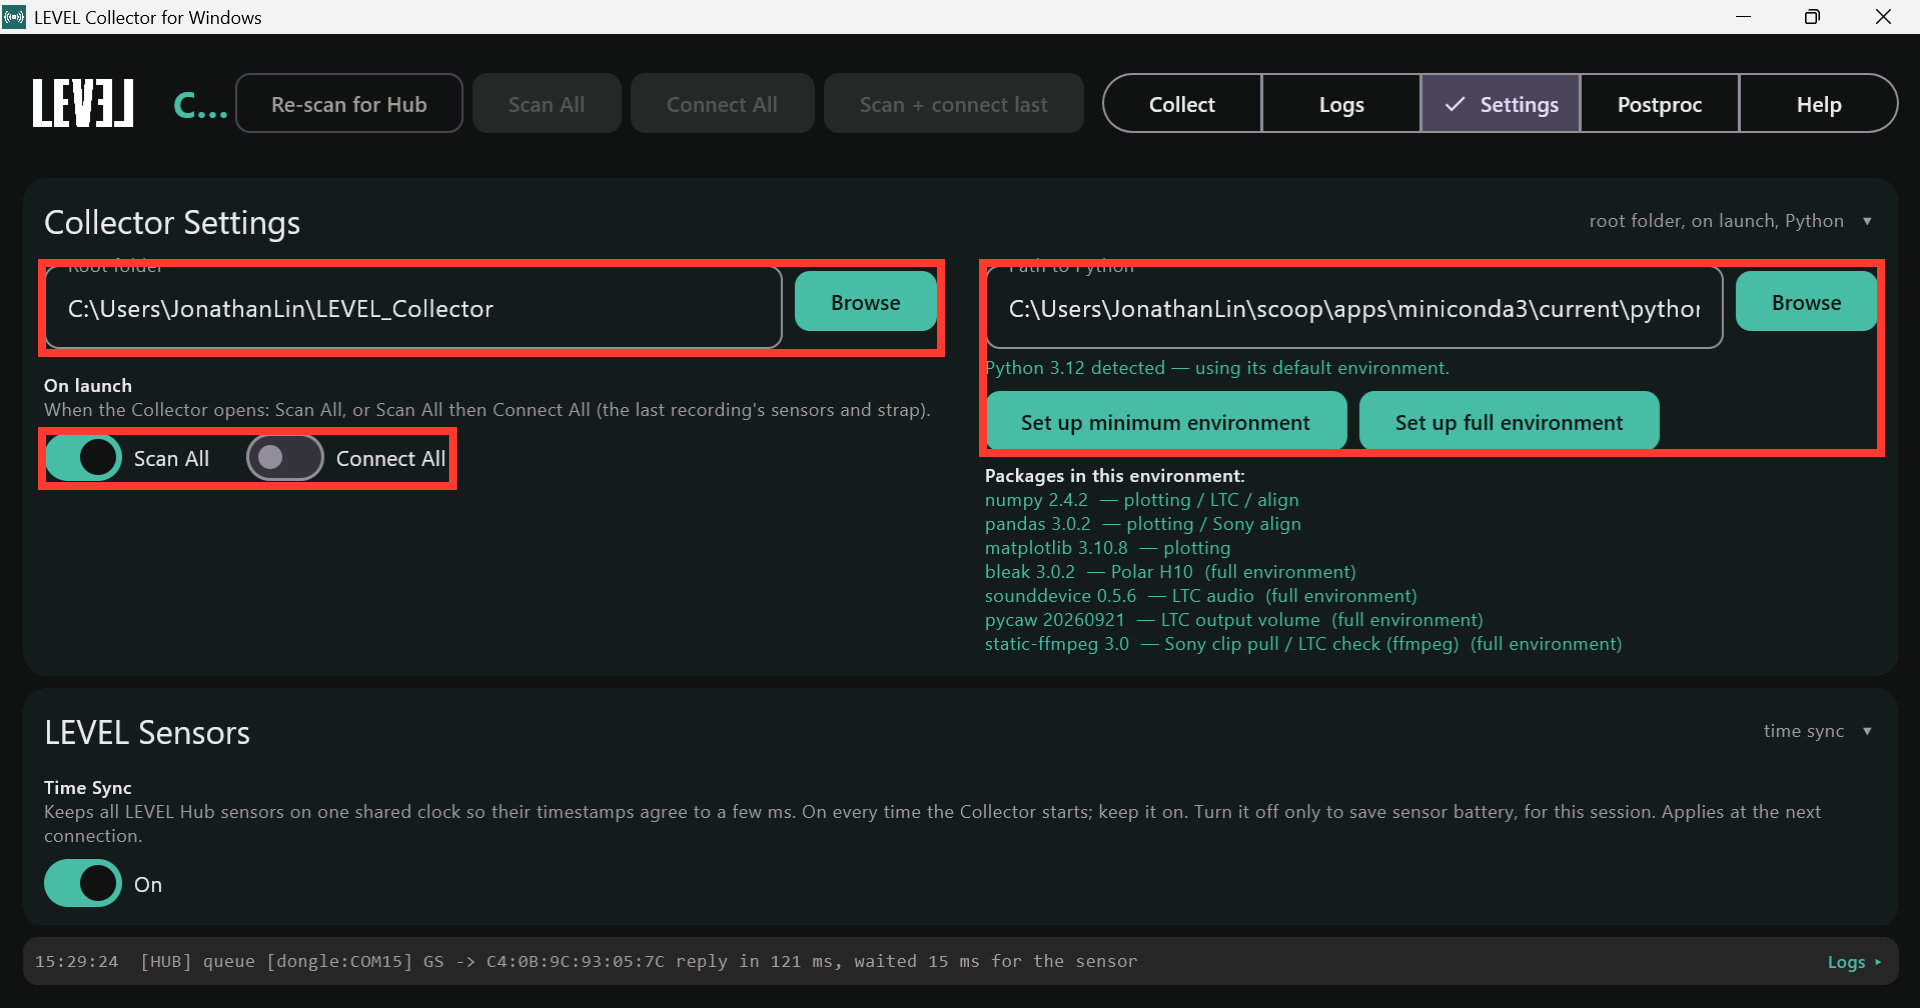
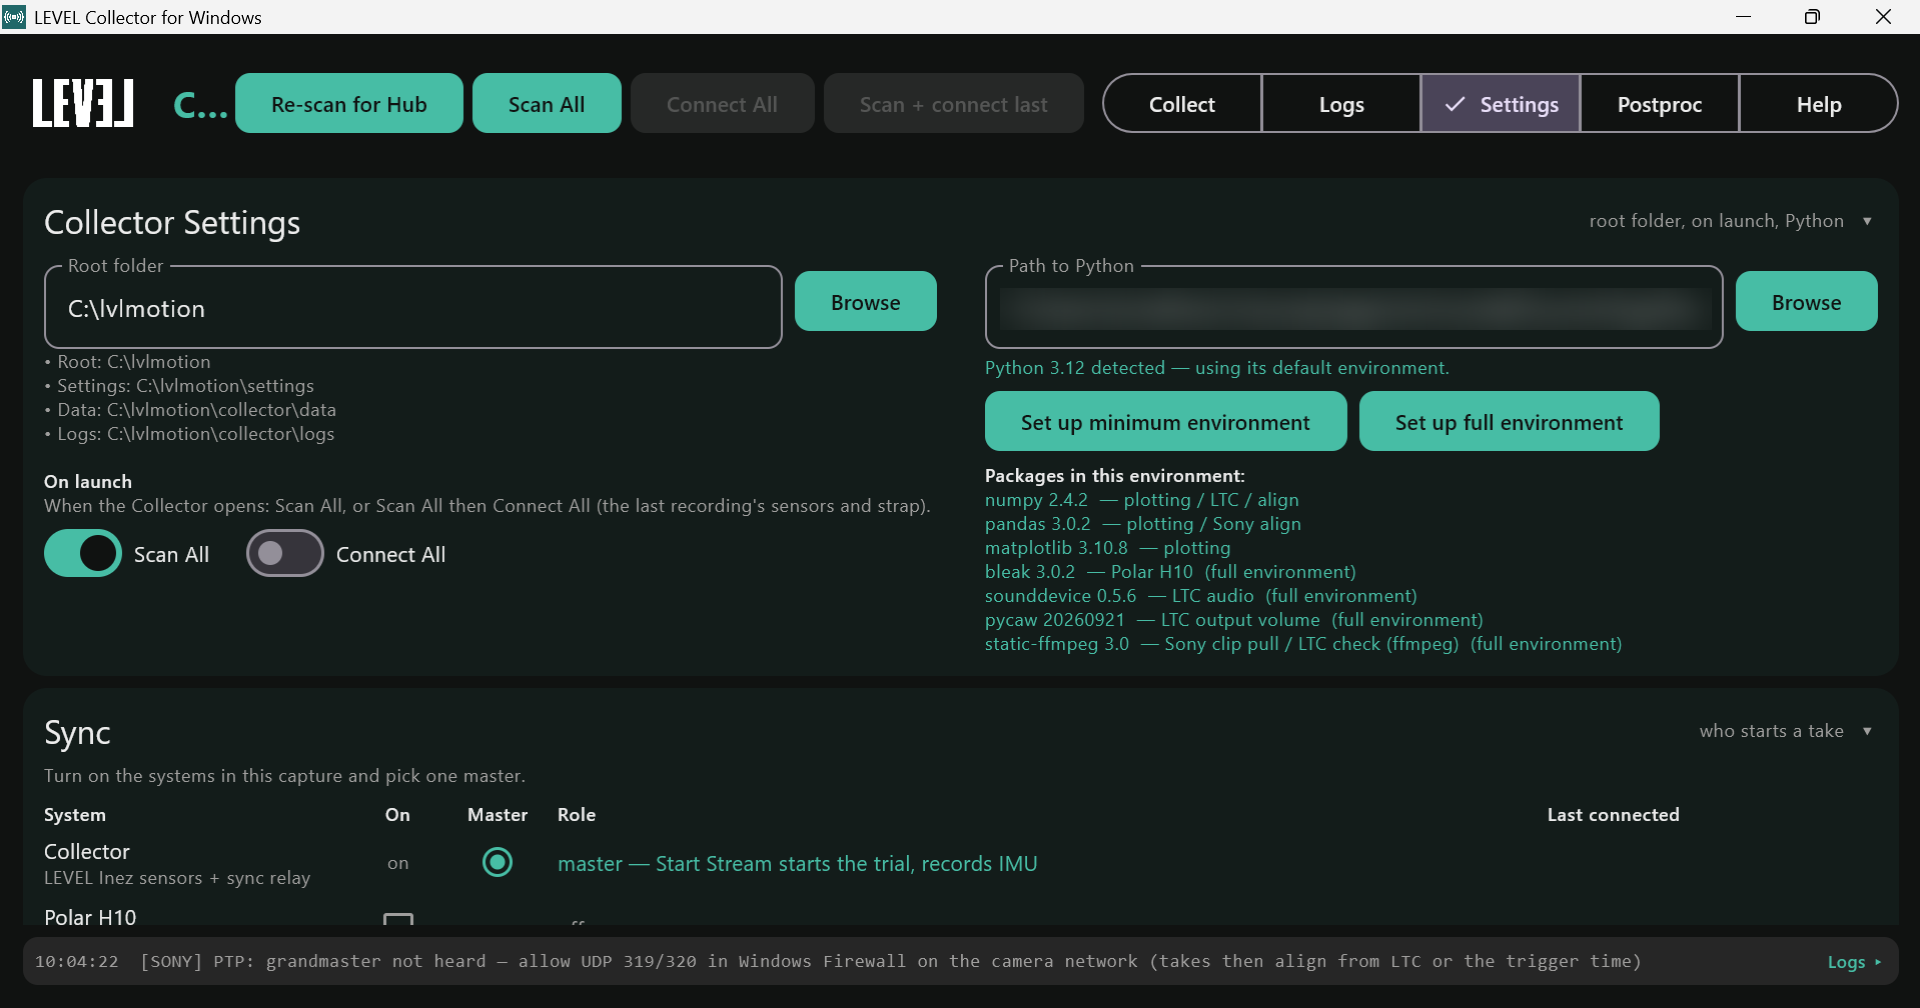
Settings: root folder is the folder you pick, with the Root / Settings / Data / Logs list (new screenshot); Installing: drop old-version update notes; screenshot notes numbered #1-#9
Claude-Session: https://claude.ai/code/session_015KJCcdhEfppe6DCue5hXZZ

diff --git a/docs/windows-settings.md b/docs/windows-settings.md
@@ -12,19 +12,27 @@ fold it away: **Collector Settings**, **Sync**, then one
 panel for each other system that is on.
 
 ![Settings tab: Collector Settings with the root folder, On launch switches and the Python interpreter](assets/windows-settings/collector-settings.png)
-<p style="color:#FF3B30;font-size:1.3em"><strong>RETAKE SCREENSHOT: root folder `C:\lvlmotion` with the Recordings go to / settings stay in line; no LEVEL Sensors / Time Sync panel; no personal user paths</strong></p>
 
 ## Collector Settings
 
 ### Root folder
 
-Where new recordings go. The Collector keeps its data in the root folder's
-`collector` folder: each take in `collector\data`, and beside it `logs`,
-`aligned` (post-processed takes), `calibration`, `sony` (pulled clips),
-`support` and `images`. The default root folder is `C:\lvlmotion`, so takes
-land in `C:\lvlmotion\collector\data\`. Type a path and press Enter, or
-**Browse**. A folder not named `lvlmotion` gets one inside it: picking `D:\`
-gives `D:\lvlmotion`. The line under the box shows where recordings now go.
+Where new recordings go. The default root folder is `C:\lvlmotion`. To use
+another one, type its path and press Enter (a folder that does not exist yet
+is created), or **Browse** to it. The folder you pick is the root folder, as
+is: pick `D:\lvlmotion`, not `D:\`, if you want a `lvlmotion` folder.
+
+The list under the box shows where everything is:
+
+- **Root**: the root folder (`C:\lvlmotion` by default).
+- **Settings**: always `C:\lvlmotion\settings`, whatever the root folder.
+- **Data**: the takes, in the root folder's `collector\data`
+  (`C:\lvlmotion\collector\data` by default).
+- **Logs**: the app logs, in `collector\logs`.
+
+Beside `data` and `logs`, the `collector` folder also holds `aligned`
+(post-processed takes), `calibration`, `sony` (pulled clips), `support` and
+`images`.
 
 A new root folder applies at once, to new takes only: existing recordings stay
 where they are and are not moved. It cannot be changed while a take is
@@ -71,7 +79,7 @@ Collector.
 ## Sync
 
 ![Sync table with Polar H10, Sony and Vicon on and the Collector as master](assets/windows-settings/sync-table.png)
-<p style="color:#FF3B30;font-size:1.3em"><strong>RETAKE SCREENSHOT: crop out the removed LEVEL Sensors / Time Sync panel above the table</strong></p>
+<p style="color:#FF3B30;font-size:1.3em"><strong>RETAKE SCREENSHOT #3: crop out the removed LEVEL Sensors / Time Sync panel above the table</strong></p>
 
 One take, several systems, one clock: the sync table says which systems are in
 the capture and which one starts a take (the **master**). The Collector relays
@@ -108,7 +116,7 @@ describe each one:
   [Sony Cameras and Theia](windows-sony-theia).
 
   ![Sony panel in Settings: control box address, Sony video folder and the auto-get-key option on the left; LTC output, gain and Calibrate LTC on the right](assets/windows-settings/sony-panel.png)
-  <p style="color:#FF3B30;font-size:1.3em"><strong>RETAKE SCREENSHOT: Sony panel with the LTC gain at the new 0.015 default (0.1.41+)</strong></p>
+  <p style="color:#FF3B30;font-size:1.3em"><strong>RETAKE SCREENSHOT #4: Sony panel with the LTC gain at the new 0.015 default (0.1.41+)</strong></p>
 - **Vicon**: on the left, **Auto-arm by default** (only when Vicon is master),
   the DataStream SDK path and the Nexus session folder (normally left blank);
   on the right, the UDP port and, when the Collector is master, the Nexus host

diff --git a/docs/windows-sony-theia.md b/docs/windows-sony-theia.md
@@ -165,7 +165,7 @@ What this page adds to that setup, once per rig:
    clip also measures K_av and saves it.
 
 ![Sony panel on the Collect tab: Play LTC signal on, two cameras listed with camera 001 picked as the LTC camera, and the PTP line reading grandmaster heard](assets/windows-sony-theia/sony-panel-ltc-picked.png)
-<p style="color:#FF3B30;font-size:1.3em"><strong>RETAKE SCREENSHOT: current Sony panel with Init rig and Pull all clips, PTP line inside Rig details, stamped player (no FREE-RUNNING)</strong></p>
+<p style="color:#FF3B30;font-size:1.3em"><strong>RETAKE SCREENSHOT #5: current Sony panel with Init rig and Pull all clips, PTP line inside Rig details, stamped player (no FREE-RUNNING)</strong></p>
 
 While LTC plays, the Collector takes the LTC output for itself (WASAPI
 exclusive mode), so no other sound can land on the signal and the timing is
@@ -195,7 +195,7 @@ into **K_av (ms)** and press **Set**. To measure it:
    view.
 
    ![The clock page full screen: the PC time with two strips of squares above it and two below](assets/windows-sony-theia/clock-page.png)
-   <p style="color:#FF3B30;font-size:1.3em"><strong>RETAKE SCREENSHOT: check against the current clock page</strong></p>
+   <p style="color:#FF3B30;font-size:1.3em"><strong>RETAKE SCREENSHOT #6: check against the current clock page</strong></p>
 3. Press **Calibrate**. The Collector plays LTC, records 12 seconds, copies the
    clip and reads the clock from the video. After about a minute it shows the
    result, for example "K_av = 9 ms (spread 18 ms)", and saves it
@@ -241,7 +241,7 @@ something is wrong. If you start a take with Sony on but **Play LTC
 signal** off, the log warns that the take will align without LTC.
 
 ![Sony panel during a take: both cameras Recording, LTC on, and the Sony card in the sidebar reading REC](assets/windows-sony-theia/sony-recording.png)
-<p style="color:#FF3B30;font-size:1.3em"><strong>RETAKE SCREENSHOT: current Sony panel during a take (no Get Browser Key / Link Date/Time / Unmute buttons)</strong></p>
+<p style="color:#FF3B30;font-size:1.3em"><strong>RETAKE SCREENSHOT #7: current Sony panel during a take (no Get Browser Key / Link Date/Time / Unmute buttons)</strong></p>
 
 ## Files generated
 

diff --git a/docs/windows-setting-up.md b/docs/windows-setting-up.md
@@ -8,7 +8,7 @@ nav_order: 3
 # Setting Up for a Recording
 
 ![Collect tab with the sensors connected, the Polar H10 strap ready, the Sony panel waiting for an LTC camera, and all four systems in the status sidebar](assets/windows-setting-up/collect-tab-all-systems.png)
-<p style="color:#FF3B30;font-size:1.3em"><strong>RETAKE SCREENSHOT (on 0.1.41+): Vicon card reads "not connected — press Connect to Nexus" before Connect to Nexus is pressed (0.1.39 shows "idle — Nexus gives no ready signal"); Sony panel has Init rig / Pull all clips instead of Get Browser Key, Link Date/Time, Unmute</strong></p>
+<p style="color:#FF3B30;font-size:1.3em"><strong>RETAKE SCREENSHOT #1 (on 0.1.41+): Vicon card reads "not connected — press Connect to Nexus" before Connect to Nexus is pressed (0.1.39 shows "idle — Nexus gives no ready signal"); Sony panel has Init rig / Pull all clips instead of Get Browser Key, Link Date/Time, Unmute</strong></p>
 
 ## Turn on the systems you are using
 
@@ -41,7 +41,7 @@ below. Each card reads **name - what you picked** (or what you still need to
 pick), then a coloured status line, then any warnings.
 
 ![Status sidebar: LEVEL green, Polar yellow, Sony red with a warning, Vicon grey](assets/windows-setting-up/status-sidebar.png)
-<p style="color:#FF3B30;font-size:1.3em"><strong>RETAKE SCREENSHOT (on 0.1.41+): Vicon card reads "not connected — press Connect to Nexus" (grey)</strong></p>
+<p style="color:#FF3B30;font-size:1.3em"><strong>RETAKE SCREENSHOT #2 (on 0.1.41+): Vicon card reads "not connected — press Connect to Nexus" (grey)</strong></p>
 
 | Colour | Meaning |
 |---|---|

diff --git a/docs/windows-installing.md b/docs/windows-installing.md
@@ -25,15 +25,6 @@ the Python setup (plotting, Polar, Sony and Vicon need it) and the sync table.
 
 - Run the new installer: it replaces the old version and keeps your settings,
   recordings and Python environment.
-- Updating from an older version that kept its settings somewhere else (such as
-  your user folder): nothing is carried over except an old LEVEL Python
-  environment, which moves into `C:\lvlmotion\settings`. The Collector starts
-  with its default settings, so set the root folder again, and press **Set up
-  minimum/full environment** (it reuses the moved environment) or **Browse** to
-  your Python (see [Settings](windows-settings)). Older recordings stay where
-  they were.
-- Versions before 0.1.34 were installed for one Windows account only. Uninstall
-  such a version first (Settings > Apps), or both stay installed side by side.
 - The **Help** tab shows the version at the top (also in the first lines of the **Logs** tab).
 - If Windows refuses to install (the new version is not newer than the one
   installed), uninstall the old one first (Settings > Apps). Your settings and

diff --git a/docs/windows-postprocessing.md b/docs/windows-postprocessing.md
@@ -11,7 +11,7 @@ The **Postproc** tab works on takes you have already recorded. It has two
 parts: a shortcut to the last take, and **Align to PC clock**, which puts the
 other systems' data on the same clock as the LEVEL sensors.
 
-<p style="color:#FF3B30;font-size:1.3em"><strong>TODO SCREENSHOT: Postproc tab with the Last session row and the Align to PC clock table holding a few takes</strong></p>
+<p style="color:#FF3B30;font-size:1.3em"><strong>TODO SCREENSHOT #8: Postproc tab with the Last session row and the Align to PC clock table holding a few takes</strong></p>
 
 ## Last session
 

diff --git a/docs/windows-vicon.md b/docs/windows-vicon.md
@@ -71,7 +71,7 @@ None for the link itself. Calibrate Vicon and take a static trial as your lab
 normally does. Then do a short test take: the Vicon card in the sidebar should
 stay **green**, reading "receiving — frame ..." at about the Vicon frame rate.
 
-<p style="color:#FF3B30;font-size:1.3em"><strong>TODO SCREENSHOT: Vicon panel in the Collect tab, connected (green), before Start Stream</strong></p>
+<p style="color:#FF3B30;font-size:1.3em"><strong>TODO SCREENSHOT #9: Vicon panel in the Collect tab, connected (green), before Start Stream</strong></p>
 
 ## How to stream
 
